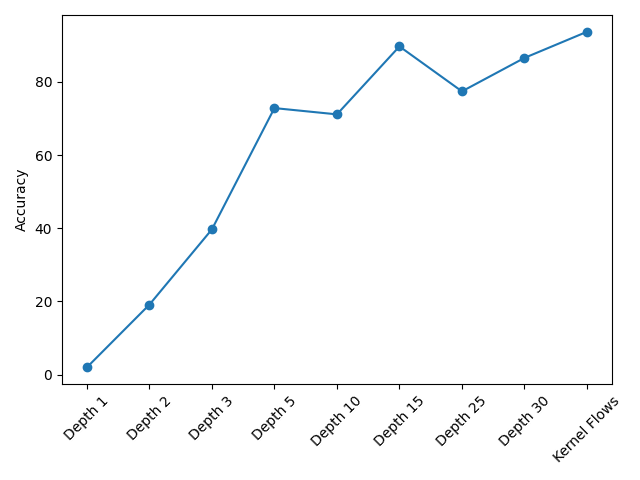
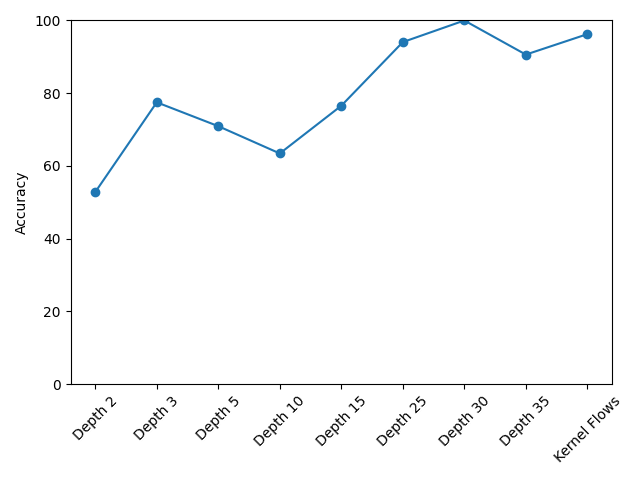
Updated swissroll experiments for deeper NN vs kf

diff --git a/exp_kf_nngp/kernel_flow_swissroll.py b/exp_kf_nngp/kernel_flow_swissroll.py
@@ -13,7 +13,18 @@ from tqdm import tqdm
 sys.path.insert(0, os.getcwd() + '/.')
 from KernelFlow import KernelFlowsNP
 
-def train_network_classification(model, dataloader, epochs, learning_rate):
+def train_network_classification(model: nn.Module, dataloader: DataLoader, epochs: int, learning_rate: float):
+    """Helper method to train NN
+
+    Args:
+        model (nn.Module): network to train
+        dataloader (DataLoader): Dataloader for the training dataset
+        epochs (int): Number of epochs to execute training
+        learning_rate (float): Learning rate used for training
+
+    Returns:
+        (model, training_loss): Trained model and its accompanying loss history
+    """
     model.train()
     optimizer =  torch.optim.Adam(model.parameters(), lr=learning_rate)
     criterion = nn.MSELoss()
@@ -27,11 +38,17 @@ def train_network_classification(model, dataloader, epochs, learning_rate):
             optimizer.step()
             total_loss.append(loss.detach().numpy())
 
-
     return model, total_loss
 
 class make_swissroll_cheesecake():
-    def __init__(self, n=100):
+    """Class that defines the generation of the swissroll cheesecake dataset
+    """
+    def __init__(self, n: int=100, train=True):
+        """Constructor of swissroll cheesecake.
+
+        Args:
+            n (int, optional): 0.35*n + (0.85*n-0.5*n) points are generated. This is because we do not wish to get a very entangled swissroll cheesecake. Defaults to 100.
+        """
         points = np.linspace(1.5*np.pi, 4.5*np.pi, n//2)
         X_1 = points*np.sin(points)
         X_2 = points*np.cos(points)
@@ -43,8 +60,13 @@ class make_swissroll_cheesecake():
         X_ = np.concatenate((X_11.reshape(-1,1), X_22.reshape(-1,1)), axis=1)
         X = np.concatenate((X,X_))
         Y = np.concatenate((Y_1,Y_2)).reshape((-1,1))
-        self.X = torch.from_numpy(np.concatenate((X[:int(n*0.35),:], X[int(n*0.5):int(n*0.85),:]))).to(torch.float32)
-        self.Y = torch.from_numpy(np.concatenate((Y[:int(n*0.35),:], Y[int(n*0.5):int(n*0.85),:]))).to(torch.float32)
+        if train:
+            self.X = torch.from_numpy(np.concatenate((X[:int(n*0.325),:], X[int(n*0.5):int(n*0.825),:]))).to(torch.float32)
+            self.Y = torch.from_numpy(np.concatenate((Y[:int(n*0.325),:], Y[int(n*0.5):int(n*0.825),:]))).to(torch.float32)
+        else:
+            self.X = torch.from_numpy(np.concatenate((X[:int(n*0.32),:], X[int(n*0.5):int(n*0.82),:]))).to(torch.float32)
+            self.Y = torch.from_numpy(np.concatenate((Y[:int(n*0.32),:], Y[int(n*0.5):int(n*0.82),:]))).to(torch.float32)
+
         self.n = self.X.shape[0]
 
     def __getitem__(self, index):
@@ -53,7 +75,15 @@ class make_swissroll_cheesecake():
     def __len__(self):
         return self.n
 
-def get_resnet(depth):
+def get_resnet(depth: int) -> nn.Module:
+    """Get a resnet of a particular size
+
+    Args:
+        depth (int): depth of the resnet
+
+    Returns:
+        nn.Module: the initialized resnet
+    """
     class ResBlock(torch.nn.Module):
         def __init__(self, in_size:int, hidden_size:int):
             super().__init__()
@@ -70,22 +100,25 @@ def get_resnet(depth):
     layers = []
     for _ in range(depth):  # n_layers
             layers += [
-                    ResBlock(8,8)
+                    ResBlock(4,4)
                     ]
 
     res_model = torch.nn.Sequential(
-            torch.nn.Linear(2, 8),
-            # torch.nn.BatchNorm1d(8),
+            torch.nn.Linear(2, 4),
+            torch.nn.BatchNorm1d(4),
             torch.nn.ReLU(),
             *layers,
-            torch.nn.Linear(8, 1),
+            torch.nn.Linear(4, 1),
             )
     # res_model.to(device)
     return res_model
 
-def evaluate_network(res_model, swissroll_dataloader, test_data_x, test_data_y, ax, depth):
+def evaluate_network(res_model: nn.Module, swissroll_dataloader: DataLoader, test_data_x: torch.Tensor, test_data_y: torch.Tensor, ax, depth: int):
+    """
+    Helper method that runs the training for the swissroll cheesecake dataset and returns the accuracy on the test dataset.
+    """
     res_model_trained, loss_trend = train_network_classification(res_model, 
-                                                                swissroll_dataloader, 300, 
+                                                                swissroll_dataloader, 250, 
                                                                 learning_rate=0.001)
 
     res_model.eval()
@@ -102,15 +135,18 @@ def evaluate_network(res_model, swissroll_dataloader, test_data_x, test_data_y, 
 
     return (test_data_y.shape[0] - np.sum(np.abs(test_pred - test_data_y).numpy())) / test_data_y.shape[0] * 100
 
-def evaluate_kf_rbf(train_x, train_y, test_x, test_y, ax):
+def evaluate_kf_rbf(train_x: np.ndarray, train_y: np.ndarray, test_x: np.ndarray, test_y: np.ndarray, ax):
+    """
+    Helper method that runs the non-parametric kernel flow training and then returns the test accuracy on the trained kernel
+    """
     mu = np.array([2.0])
     kernel_name = "RBF"
     KF_rbf = KernelFlowsNP(kernel_name, mu)
 
-    iterations = 35000
-    batch_size = 30
+    iterations = 30000
+    batch_size = 32
     mu_pred = KF_rbf.fit(train_x, train_y, iterations, batch_size = batch_size, learning_rate = 0.01, type_epsilon = "relative", show_it=10000, reg=0.01)
-    Y_test_pred = KF_rbf.predict(test_x, regu=0.00001)
+    Y_test_pred = KF_rbf.predict(test_x, regu=0.000001)
     Y_test_pred[Y_test_pred < 0] = -1
     Y_test_pred[Y_test_pred > 0] = 1
 
@@ -123,18 +159,20 @@ def evaluate_kf_rbf(train_x, train_y, test_x, test_y, ax):
     return (test_y.shape[0] - np.sum(np.abs(Y_test_pred - test_y))) / test_y.shape[0] * 100
 
 if __name__ == '__main__':
-    swissroll = make_swissroll_cheesecake(120)
-    swissroll_test = make_swissroll_cheesecake(1000)
-    swissroll_dataloader = DataLoader(dataset=swissroll, batch_size = 80, shuffle=True)
+    swissroll = make_swissroll_cheesecake(120, train=True)
+    swissroll_test = make_swissroll_cheesecake(1000, train=False)
+    swissroll_dataloader = DataLoader(dataset=swissroll, batch_size = 32, shuffle=True)
     swissroll_dataloader_test = DataLoader(dataset=swissroll_test, batch_size = 1000, shuffle=True)
 
-    train_data_x, train_data_y = next(iter(swissroll_dataloader))
+    swissroll_rbf = make_swissroll_cheesecake(120)
+    swissroll_dataloader_rbf = DataLoader(dataset=swissroll_rbf, batch_size = 120, shuffle=True)
+    train_data_x, train_data_y = next(iter(swissroll_dataloader_rbf))
     test_data_x, test_data_y = next(iter(swissroll_dataloader_test))
 
     plt.scatter(train_data_x[:,0], train_data_x[:,1], c = train_data_y)
     plt.scatter(test_data_x[:,0], test_data_x[:,1], c = test_data_y)
 
-    depth_arr = [0, 1, 2, 4, 9, 14, 24, 29]
+    depth_arr = [1, 2, 4, 9, 14, 24, 29, 34]
     depth_vs_accuracy = {}
     fig, axs = plt.subplots(3, 3, figsize=(10,5))
     axs = axs.reshape(-1)
@@ -156,6 +194,7 @@ if __name__ == '__main__':
     x, y = zip(*lists) # unpack a list of pairs into two tuples    
     fig, ax = plt.subplots(1,1)
     ax.plot(y, 'o-')
+    ax.set_ylim((0,100))
     ax.set_xticks(np.arange(len(x)))
     ax.set_xticklabels(["Depth " + str(x_i + 1) for x_i in x[:-1]] + ["Kernel Flows"], rotation=45)
     ax.set_ylabel("Accuracy")
